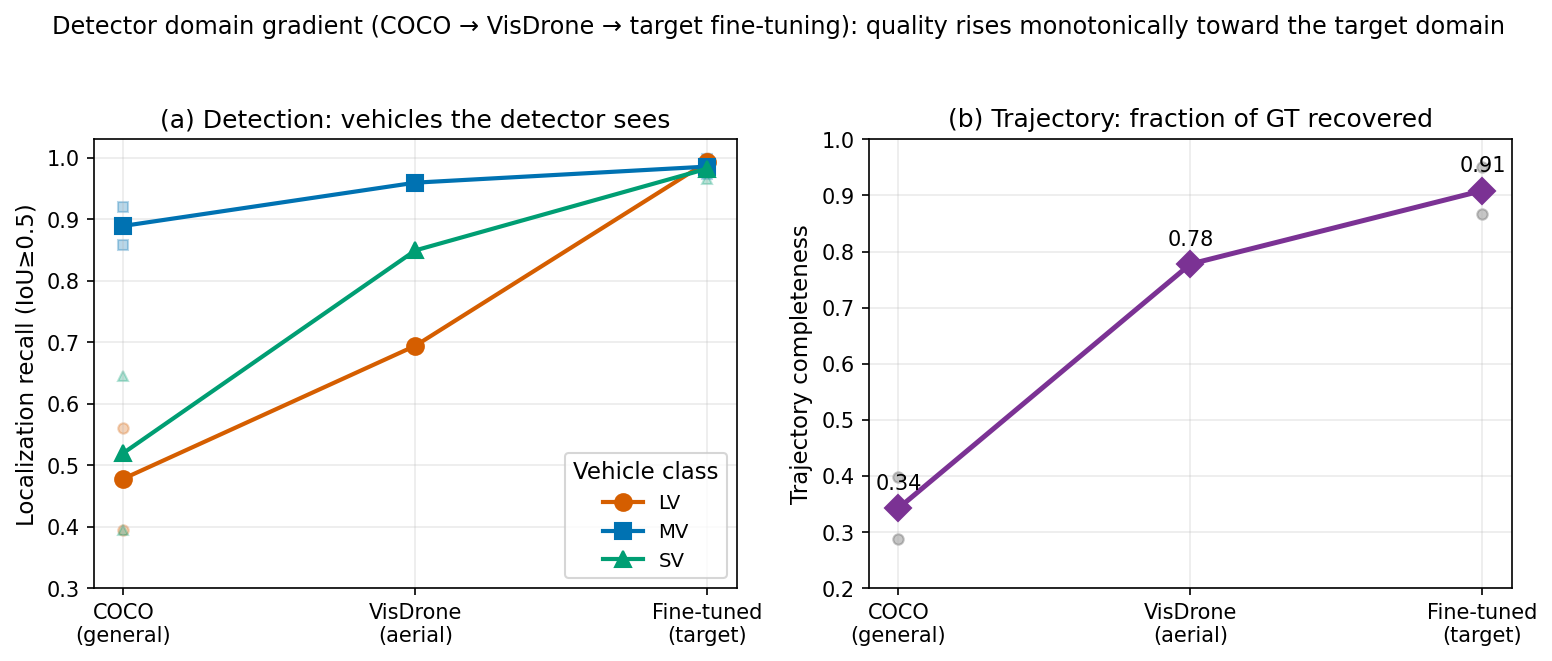
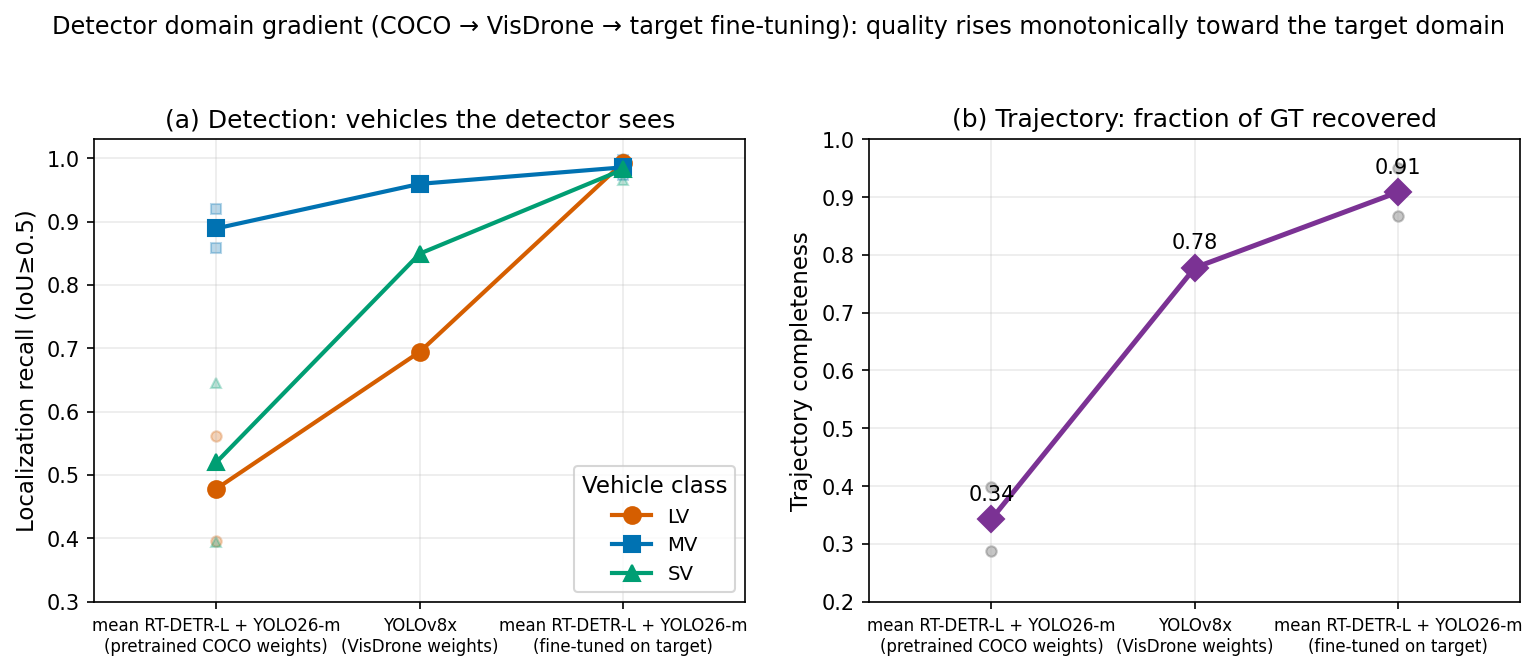
Relabel F10b x-ticks with concrete model/weights; pad axes
Replace the generic regime tick labels (COCO/VisDrone/Fine-tuned) in
F10b with what each point actually aggregates: "mean RT-DETR-L +
YOLO26-m (pretrained COCO weights)", "YOLOv8x (VisDrone weights)", and
"mean RT-DETR-L + YOLO26-m (fine-tuned on target)". Drop tick font to
8 pt and widen x-limits to -0.6..2.6 so the multi-line end labels no
longer spill past the left/right axis edges.

diff --git a/scripts/make_paper_figures.py b/scripts/make_paper_figures.py
@@ -980,9 +980,12 @@ def fig_ablation():
 # (COCO/fine-tuned = mean of RT-DETR-L + YOLO26-m; VisDrone = the single
 # YOLOv8x). Individual architecture points are overlaid faintly to show spread.
 ABL_REGIMES = [
-    ("COCO\n(general)", "COCO", [("rtdetr_l", "pretrained"), ("yolo26m", "pretrained")]),
-    ("VisDrone\n(aerial)", "aerial", [("visdrone8x", "visdrone")]),
-    ("Fine-tuned\n(target)", "fine-tuned", [("rtdetr_l", "finetuned"), ("yolo26m", "finetuned")]),
+    ("mean RT-DETR-L + YOLO26-m\n(pretrained COCO weights)", "COCO",
+     [("rtdetr_l", "pretrained"), ("yolo26m", "pretrained")]),
+    ("YOLOv8x\n(VisDrone weights)", "aerial",
+     [("visdrone8x", "visdrone")]),
+    ("mean RT-DETR-L + YOLO26-m\n(fine-tuned on target)", "fine-tuned",
+     [("rtdetr_l", "finetuned"), ("yolo26m", "finetuned")]),
 ]
 CLASS_LINE = {"LV": ("#D55E00", "o", "-"), "MV": ("#0072B2", "s", "-"),
               "SV": ("#009E73", "^", "-")}
@@ -1025,7 +1028,8 @@ def fig_ablation_line():
                              color=col, alpha=0.28, ms=5, zorder=1)
         axA.plot(x, ys, ls, color=col, marker=mk, ms=8, lw=2.0,
                  label=f"{c}", zorder=3)
-    axA.set_xticks(x); axA.set_xticklabels([r[0] for r in ABL_REGIMES])
+    axA.set_xticks(x); axA.set_xticklabels([r[0] for r in ABL_REGIMES], fontsize=8)
+    axA.set_xlim(-0.6, 2.6)
     axA.set_ylabel("Localization recall (IoU≥0.5)")
     axA.set_ylim(0.3, 1.03)
     axA.set_title("(a) Detection: vehicles the detector sees")
@@ -1046,7 +1050,8 @@ def fig_ablation_line():
         if not np.isnan(v):
             axB.annotate(f"{v:.2f}", (xi, v), textcoords="offset points",
                          xytext=(0, 9), ha="center", fontsize=10)
-    axB.set_xticks(x); axB.set_xticklabels([r[0] for r in ABL_REGIMES])
+    axB.set_xticks(x); axB.set_xticklabels([r[0] for r in ABL_REGIMES], fontsize=8)
+    axB.set_xlim(-0.6, 2.6)
     axB.set_ylabel("Trajectory completeness")
     axB.set_ylim(0.2, 1.0)
     axB.set_title("(b) Trajectory: fraction of GT recovered")
